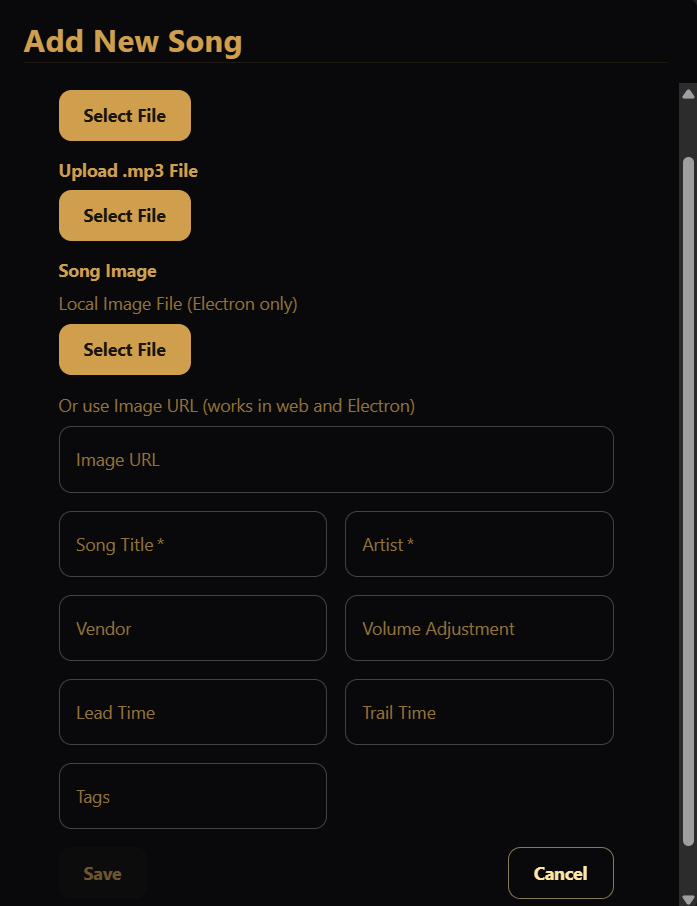
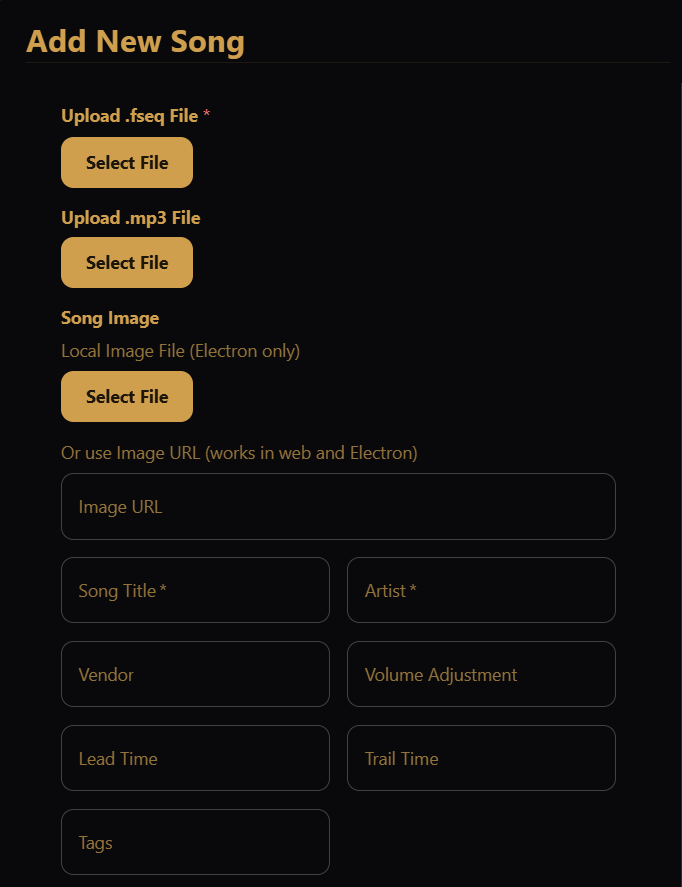
added details of player-screen

diff --git a/doc/manual/docs/basics/player-screen.md b/doc/manual/docs/basics/player-screen.md
@@ -5,6 +5,172 @@ title: Player Screen
 
 # Player Screen
 
-:::note Placeholder
-This page is a placeholder. Content coming soon.
-:::
+The **Player** screen is EZPlayer's home view — the first thing you see when you
+open the app. It answers three questions at a glance:
+
+1. **What is playing right now?**
+2. **Are my controllers healthy?**
+3. **What does today's schedule look like?**
+
+Use it as your day-to-day command center during setup and show nights. For deeper
+diagnostics (per-controller detail, statistics, server status), open
+[Show Status](../advanced/show-status/details.md).
+
+![Player screen](/img/player.png)
+
+## Layout
+
+The screen has three sections, top to bottom:
+
+| Section               | What it shows                                                       |
+| --------------------- | ------------------------------------------------------------------- |
+| **Now Playing**       | Live playback status, volume, current song, next item, and controls |
+| **Controller Status** | Summary of models, channels, and online/offline health              |
+| **Today's timeline**  | Simulated run-through of **today's** scheduled events               |
+
+The Player screen is the **default route** when EZPlayer starts — select
+**Player** in the sidebar anytime to return here.
+
+## Now Playing card
+
+The Now Playing card streams live status from the playback engine.
+
+### Status indicator
+
+A chip at the top shows the current player state:
+
+| Status      | Meaning                                                      |
+| ----------- | ------------------------------------------------------------ |
+| **Playing** | Sequences are advancing; lights and audio are active         |
+| **Paused**  | Playback is frozen (`pause`)                                 |
+| **Stopped** | Nothing is playing — schedule was stopped or has not started |
+
+**Last checkin** shows when the player last reported its state.
+
+### Volume
+
+A volume meter displays the current output level (0–100%). On the **desktop
+app**, you can also:
+
+- **Mute / unmute** — live toggle (`setvolume` with `mute`)
+- Open **volume settings** (gear icon) — default volume and scheduled overrides;
+  see [Volume](../advanced/volume.md)
+
+The level bar reflects the automated ramp toward your configured target; change
+the baseline and schedule overrides through the settings dialog, not by dragging
+the bar.
+
+On the **LAN UI in kiosk mode**, volume controls are read-only so public
+displays cannot change loudness.
+
+### Now Playing and Next Show
+
+When a song or sequence is active:
+
+- **Now Playing** — title of the current item and **Until** time (when it is
+  expected to end).
+- **Next Show** — the next scheduled or queued item and when it **Starts**.
+
+If nothing is playing, the card shows _No track currently playing_.
+
+### Controls
+
+When status is **Playing** or **Paused**, the same playback controls as the
+[jukebox](./jukebox.md) appear inline:
+
+- **Play / Pause / Resume**
+- **Skip** — end the current song (`endsong`)
+- **End** — graceful stop (`stopgraceful`)
+- **Abort** — hard stop (`stopnow`)
+
+If a **queue** has pending jukebox or API requests, they appear below the
+controls. Remove an item with **×** (`deleterequest`).
+
+In **kiosk mode**, **End** and **Abort** are hidden.
+
+### Reload Schedule
+
+When the player is **Stopped**, a **Reload Schedule** button appears instead of
+the transport controls. Click it to reread the schedule from disk and re-engage
+playback (`resetplayback`). Use this after editing schedules or when the show
+should start following the calendar again.
+
+## Controller Status card
+
+The Controller Status card summarizes your lighting network:
+
+- **Models** and **Channels** — totals from your show layout
+- **Controllers** — count online vs offline
+- **Health banner** — green when all controllers are online with no errors,
+  red when errors or offline units are detected, grey when no controllers are
+  assigned
+
+This is a **summary** view. Expand any controller, see ping history, open the
+statistics dialog, and check LAN server status on the dedicated
+**Show Status** screen.
+
+## Today's timeline
+
+The lower half of the Player screen is an interactive **timeline** of today's
+schedule. EZPlayer simulates your [songs](./songs.md), [playlists](./playlists.md),
+and [schedule entries](./simple-schedules.md) from midnight through end of day
+using the same playback engine logic as the full schedule preview.
+
+### What you see
+
+- **Main schedules** — colored by priority (high, normal, low)
+- **Background schedules** — shown in a single distinct color
+- Individual **sequence blocks** within each scheduled window
+- Schedule lifecycle events (started, ended, suspended, resumed, and others)
+
+Hover or click timeline items for detail. Use the toolbar to:
+
+- **Zoom in / zoom out** — focus on a time range
+- **Fit to screen** — show the full day
+- **Refresh** — regenerate the timeline from current schedule data
+
+### Important notes
+
+- The timeline is a **simulation of today's plan**, not a live log of what
+  already played. Jukebox overrides and manual stops during the night may
+  differ from what was predicted at the start of the day.
+- If you have no songs, playlists, or schedule entries for today, the screen
+  shows _No schedule data available for today._
+- For multi-day preview, priority conflicts, and loop/shuffle testing across a
+  custom date range, use **Schedule Preview** on the Schedule screen — see
+  [Simulating Your Schedule](../advanced/complex-schedules/simulating-your-schedule.md).
+
+The timeline updates when your schedule, playlist, or song data changes in the
+Redux store (for example after you save a schedule entry).
+
+## Player vs other screens
+
+| Screen                 | Best for                                                          |
+| ---------------------- | ----------------------------------------------------------------- |
+| **Player**             | Day-to-day overview: now playing, controller health, today's plan |
+| **Jukebox**            | Picking and queueing individual songs on demand                   |
+| **Show Status**        | Deep diagnostics: every controller, errors, stats, queue detail   |
+| **Schedule → Preview** | Simulating arbitrary date ranges before go-live                   |
+
+## Desktop app vs LAN UI
+
+| Capability           | Desktop app | LAN UI (normal) | LAN UI (kiosk)       |
+| -------------------- | ----------- | --------------- | -------------------- |
+| View Player screen   | Yes         | Yes             | Yes                  |
+| Live mute toggle     | Yes         | Yes             | No (read-only meter) |
+| Volume settings gear | Yes         | Yes             | No                   |
+| End / Abort controls | Yes         | Yes             | Hidden               |
+| Today's timeline     | Yes         | Yes             | Yes                  |
+
+The LAN UI is ideal for checking status from a phone on the same network
+without remote desktop. Kiosk mode keeps the Player screen available for a
+public-facing display while hiding management screens and destructive controls.
+
+## Typical workflow
+
+1. **Open Player** after launching EZPlayer — confirm controllers are online.
+2. **Scan the timeline** — verify today's schedule windows look correct.
+3. **Use Now Playing** during the show — see what is active and what is next.
+4. **Pause / Skip / End** from here or the jukebox when you need manual control.
+5. **Reload Schedule** after editing the calendar if playback was stopped.
+6. **Open Show Status** when something looks wrong with a specific controller.

diff --git a/doc/manual/docs/basics/songs.md b/doc/manual/docs/basics/songs.md
@@ -21,12 +21,12 @@ them at runtime.
 Each song is stored as a **sequence record** in your show folder. At a high
 level it contains:
 
-| Part | Purpose |
-| --- | --- |
-| **Work** | Human-facing details: title, artist, duration, optional artwork URL |
-| **Files** | Paths to the `.fseq` sequence, optional `.mp3` audio, and optional thumbnail image |
-| **Sequence** | Vendor or source info (for example `xLights`, `Local`, or a sequence vendor name) |
-| **Settings** | Per-song playback tweaks: lead time, trail time, volume adjustment, and tags |
+| Part         | Purpose                                                                            |
+| ------------ | ---------------------------------------------------------------------------------- |
+| **Work**     | Human-facing details: title, artist, duration, optional artwork URL                |
+| **Files**    | Paths to the `.fseq` sequence, optional `.mp3` audio, and optional thumbnail image |
+| **Sequence** | Vendor or source info (for example `xLights`, `Local`, or a sequence vendor name)  |
+| **Settings** | Per-song playback tweaks: lead time, trail time, volume adjustment, and tags       |
 
 The `.fseq` file is required for playback. EZPlayer reads frame timing from it
 and drives your controllers from that data. Audio is optional for silent
@@ -58,13 +58,13 @@ From the desktop app you can also click **Add Song** to register a new sequence.
 
 ### Desktop app vs LAN UI
 
-| Capability | Desktop app | LAN / embedded UI |
-| --- | --- | --- |
-| View song list | Yes | Yes |
-| Add songs | Yes | No |
-| Edit metadata and settings | Yes | No |
-| Replace FSEQ / audio / image files | Yes (Electron only) | No |
-| Delete songs | Yes | Yes (unless kiosk mode hides it) |
+| Capability                         | Desktop app         | LAN / embedded UI                |
+| ---------------------------------- | ------------------- | -------------------------------- |
+| View song list                     | Yes                 | Yes                              |
+| Add songs                          | Yes                 | No                               |
+| Edit metadata and settings         | Yes                 | No                               |
+| Replace FSEQ / audio / image files | Yes (Electron only) | No                               |
+| Delete songs                       | Yes                 | Yes (unless kiosk mode hides it) |
 
 The LAN UI is meant for monitoring and light control from phones and tablets on
 your network. Full song management stays on the show PC.
@@ -112,7 +112,7 @@ screen (or let the cloud sync deliver them — see below).
 Open **Edit Song Details** for any song in the list. You can change:
 
 - **Title, artist, and vendor**
-- **FSEQ, MP3, and image files** (desktop app only — use *Select another file*)
+- **FSEQ, MP3, and image files** (desktop app only — use _Select another file_)
 - **Image URL** for artwork shown in the jukebox
 - **Lead time**, **trail time**, and **volume adjustment**
 - **Tags**
@@ -126,12 +126,12 @@ do not interrupt it.
 These settings fine-tune how long a song occupies the schedule timeline and when
 the next song may start. Values are in **seconds**, from **-5.0** to **5.0**.
 
-- **Positive lead time** — extra time *before* the sequence content starts (for
+- **Positive lead time** — extra time _before_ the sequence content starts (for
   example a few seconds of silence or a held look while audio ramps in).
-- **Negative lead time** — *trim* the beginning of the scheduled window (start
+- **Negative lead time** — _trim_ the beginning of the scheduled window (start
   partway into the sequence).
-- **Positive trail time** — extra time *after* the sequence content ends.
-- **Negative trail time** — *trim* the end of the scheduled window (end before
+- **Positive trail time** — extra time _after_ the sequence content ends.
+- **Negative trail time** — _trim_ the end of the scheduled window (end before
   the FSEQ finishes).
 
 The scheduler uses these values when calculating playlist length, schedule
@@ -260,13 +260,3 @@ A typical local show build looks like this:
 4. **Build playlists** — group songs into ordered lists.
 5. **Schedule** — assign playlists to date/time windows.
 6. **Test** — use the jukebox or preview to verify timing before going live.
-
-## Related pages
-
-- [Getting Started (Local)](./getting-started-local.md) — first-time setup
-- [Playlists](./playlists.md) — grouping songs for playback
-- [Simple Schedules](./simple-schedules.md) — when playlists run
-- [Jukebox](./jukebox.md) — on-demand playback
-- [Jukebox settings](../settings/jukebox.md) — tag filters for the jukebox
-- [Show Folder](../settings/show-folder.md) — choosing where songs are stored
-- [REST Interface](../reference/api.md) — remote `playsong` commands

diff --git a/doc/manual/docs/basics/jukebox.md b/doc/manual/docs/basics/jukebox.md
@@ -15,21 +15,6 @@ windows, or offer a simple song-picker at a public display.
 
 ![Play on jukebox](/img/jukebox.png)
 
-## Where to find it
-
-You can open the jukebox from several places:
-
-| Access point | How |
-| --- | --- |
-| **Desktop app** | **Jukebox** in the main sidebar |
-| **LAN UI** | Same sidebar on any phone, tablet, or laptop on your network |
-| **EZRGB Cloud** | Remote access to the same player UI when cloud-connected |
-| **Fullscreen jukebox** | Navigate to `/jukebox` on the player (simplified carousel UI with screensaver) |
-
-The full **Jukebox** screen and the compact **JukeboxArea** carousel (used on
-the fullscreen route) both pull from the same song library and respect the same
-tag filters.
-
 ## The Jukebox screen
 
 At the top of the screen:
@@ -69,10 +54,10 @@ Below the controls, narrow the song grid:
 Each card shows artwork (or a music-note placeholder), title, artist, and
 vendor. Two actions:
 
-| Button | Behavior |
-| --- | --- |
-| **Play** | Start the song **immediately** (`playsong` with `immediate: true`). May interrupt or overlay the current sequence depending on schedule priority. |
-| **Queue** | Add the song to the interactive queue (`playsong` with `immediate: false`). Plays at the next sequence boundary. |
+| Button    | Behavior                                                                                                                                          |
+| --------- | ------------------------------------------------------------------------------------------------------------------------------------------------- |
+| **Play**  | Start the song **immediately** (`playsong` with `immediate: true`). May interrupt or overlay the current sequence depending on schedule priority. |
+| **Queue** | Add the song to the interactive queue (`playsong` with `immediate: false`). Plays at the next sequence boundary.                                  |
 
 On the **web / LAN UI** (not the desktop Electron app), a speaker icon in the
 header toggles a live **audio stream** — useful for listening over the network
@@ -142,11 +127,11 @@ resolve conflicts — see the [REST Interface](../reference/api.md).
 
 ## Jukebox vs schedule vs playlists
 
-| | Jukebox | Schedule |
-| --- | --- | --- |
-| **Plays** | Individual songs on demand | [Playlists](./playlists.md) on a timetable |
-| **Trigger** | You or a viewer click Play/Queue | Clock enters a scheduled window |
-| **After the song** | Schedule resumes if it was running | Continues through the playlist (or loops) |
+|                    | Jukebox                            | Schedule                                   |
+| ------------------ | ---------------------------------- | ------------------------------------------ |
+| **Plays**          | Individual songs on demand         | [Playlists](./playlists.md) on a timetable |
+| **Trigger**        | You or a viewer click Play/Queue   | Clock enters a scheduled window            |
+| **After the song** | Schedule resumes if it was running | Continues through the playlist (or loops)  |
 
 The jukebox **Filter by Playlist** dropdown only narrows what you see on screen.
 It does not play a whole playlist — use the schedule for that.
@@ -198,15 +183,3 @@ Use `deleterequest` with the same `requestId` to cancel a queued item, or
    night's playlist so guests only see relevant songs.
 5. **Fullscreen for kiosks** — point a tablet at `/jukebox` for a touch-friendly
    picker without the full app chrome.
-
-## Related pages
-
-- [Songs](./songs.md) — importing sequences and song tags
-- [Playlists](./playlists.md) — grouping songs (filter only on the jukebox screen)
-- [Simple Schedules](./simple-schedules.md) — automated show playback
-- [Complex Schedules](../advanced/complex-schedules/overview.md) — how jukebox
-  overrides interact with loop, shuffle, and priority
-- [Jukebox settings](../settings/jukebox.md) — excluded and included tags
-- [Viewer Control](../advanced/viewer-control.md) — remote song requests
-- [Getting Started (Local)](./getting-started-local.md) — first-time jukebox test
-- [REST Interface](../reference/api.md) — `playsong` and queue commands

diff --git a/doc/manual/docs/basics/playlists.md b/doc/manual/docs/basics/playlists.md
@@ -19,13 +19,13 @@ full flow.
 
 Each playlist is stored as a **playlist record** in your show folder:
 
-| Field | Purpose |
-| --- | --- |
-| **id** | Unique identifier (assigned when you create the playlist) |
-| **title** | Display name shown in the Playlists screen and schedule editor |
-| **tags** | Labels for organizing and filtering playlists (separate from song tags) |
-| **items** | Ordered list of song IDs, each with a sequence position |
-| **createdAt** / **updatedAt** | Timestamps for when the playlist was created and last saved |
+| Field                         | Purpose                                                                 |
+| ----------------------------- | ----------------------------------------------------------------------- |
+| **id**                        | Unique identifier (assigned when you create the playlist)               |
+| **title**                     | Display name shown in the Playlists screen and schedule editor          |
+| **tags**                      | Labels for organizing and filtering playlists (separate from song tags) |
+| **items**                     | Ordered list of song IDs, each with a sequence position                 |
+| **createdAt** / **updatedAt** | Timestamps for when the playlist was created and last saved             |
 
 Each item in `items` references a song by its `id`. The `sequence` number is
 the play order (1, 2, 3, …). When EZPlayer plays a playlist, it walks those items
@@ -62,6 +62,8 @@ Click **Create Playlist** to start a new one.
 
 ## Creating and editing a playlist
 
+![Create Playlist](/img/create-playlist.png)
+
 The create/edit screen has two panels:
 
 ### Left: Songs List
@@ -75,9 +77,7 @@ and sort by title or artist to find what you need.
   already in the playlist.
 - **Drag** a song from this panel into the playlist on the right.
 
-Songs already in the playlist are marked and cannot be added again from this
-panel. The editor keeps **one entry per song** — you cannot place the same
-sequence twice through the UI.
+Songs already in the playlist are marked.
 
 ### Right: Playlist
 
@@ -205,13 +205,3 @@ A typical playlist build:
    screen.
 6. **Test** — run a short schedule window or step through songs on the jukebox
    before opening night.
-
-## Related pages
-
-- [Songs](./songs.md) — importing and configuring sequences
-- [Simple Schedules](./simple-schedules.md) — attaching playlists to time windows
-- [Complex Schedules](../advanced/complex-schedules/overview.md) — loop, shuffle,
-  priority, and end policies
-- [Getting Started (Local)](./getting-started-local.md) — end-to-end local setup
-- [REST Interface](../reference/api.md) — `POST /api/playlists` and show state API
-- [Show Folder](../settings/show-folder.md) — where playlist data is stored